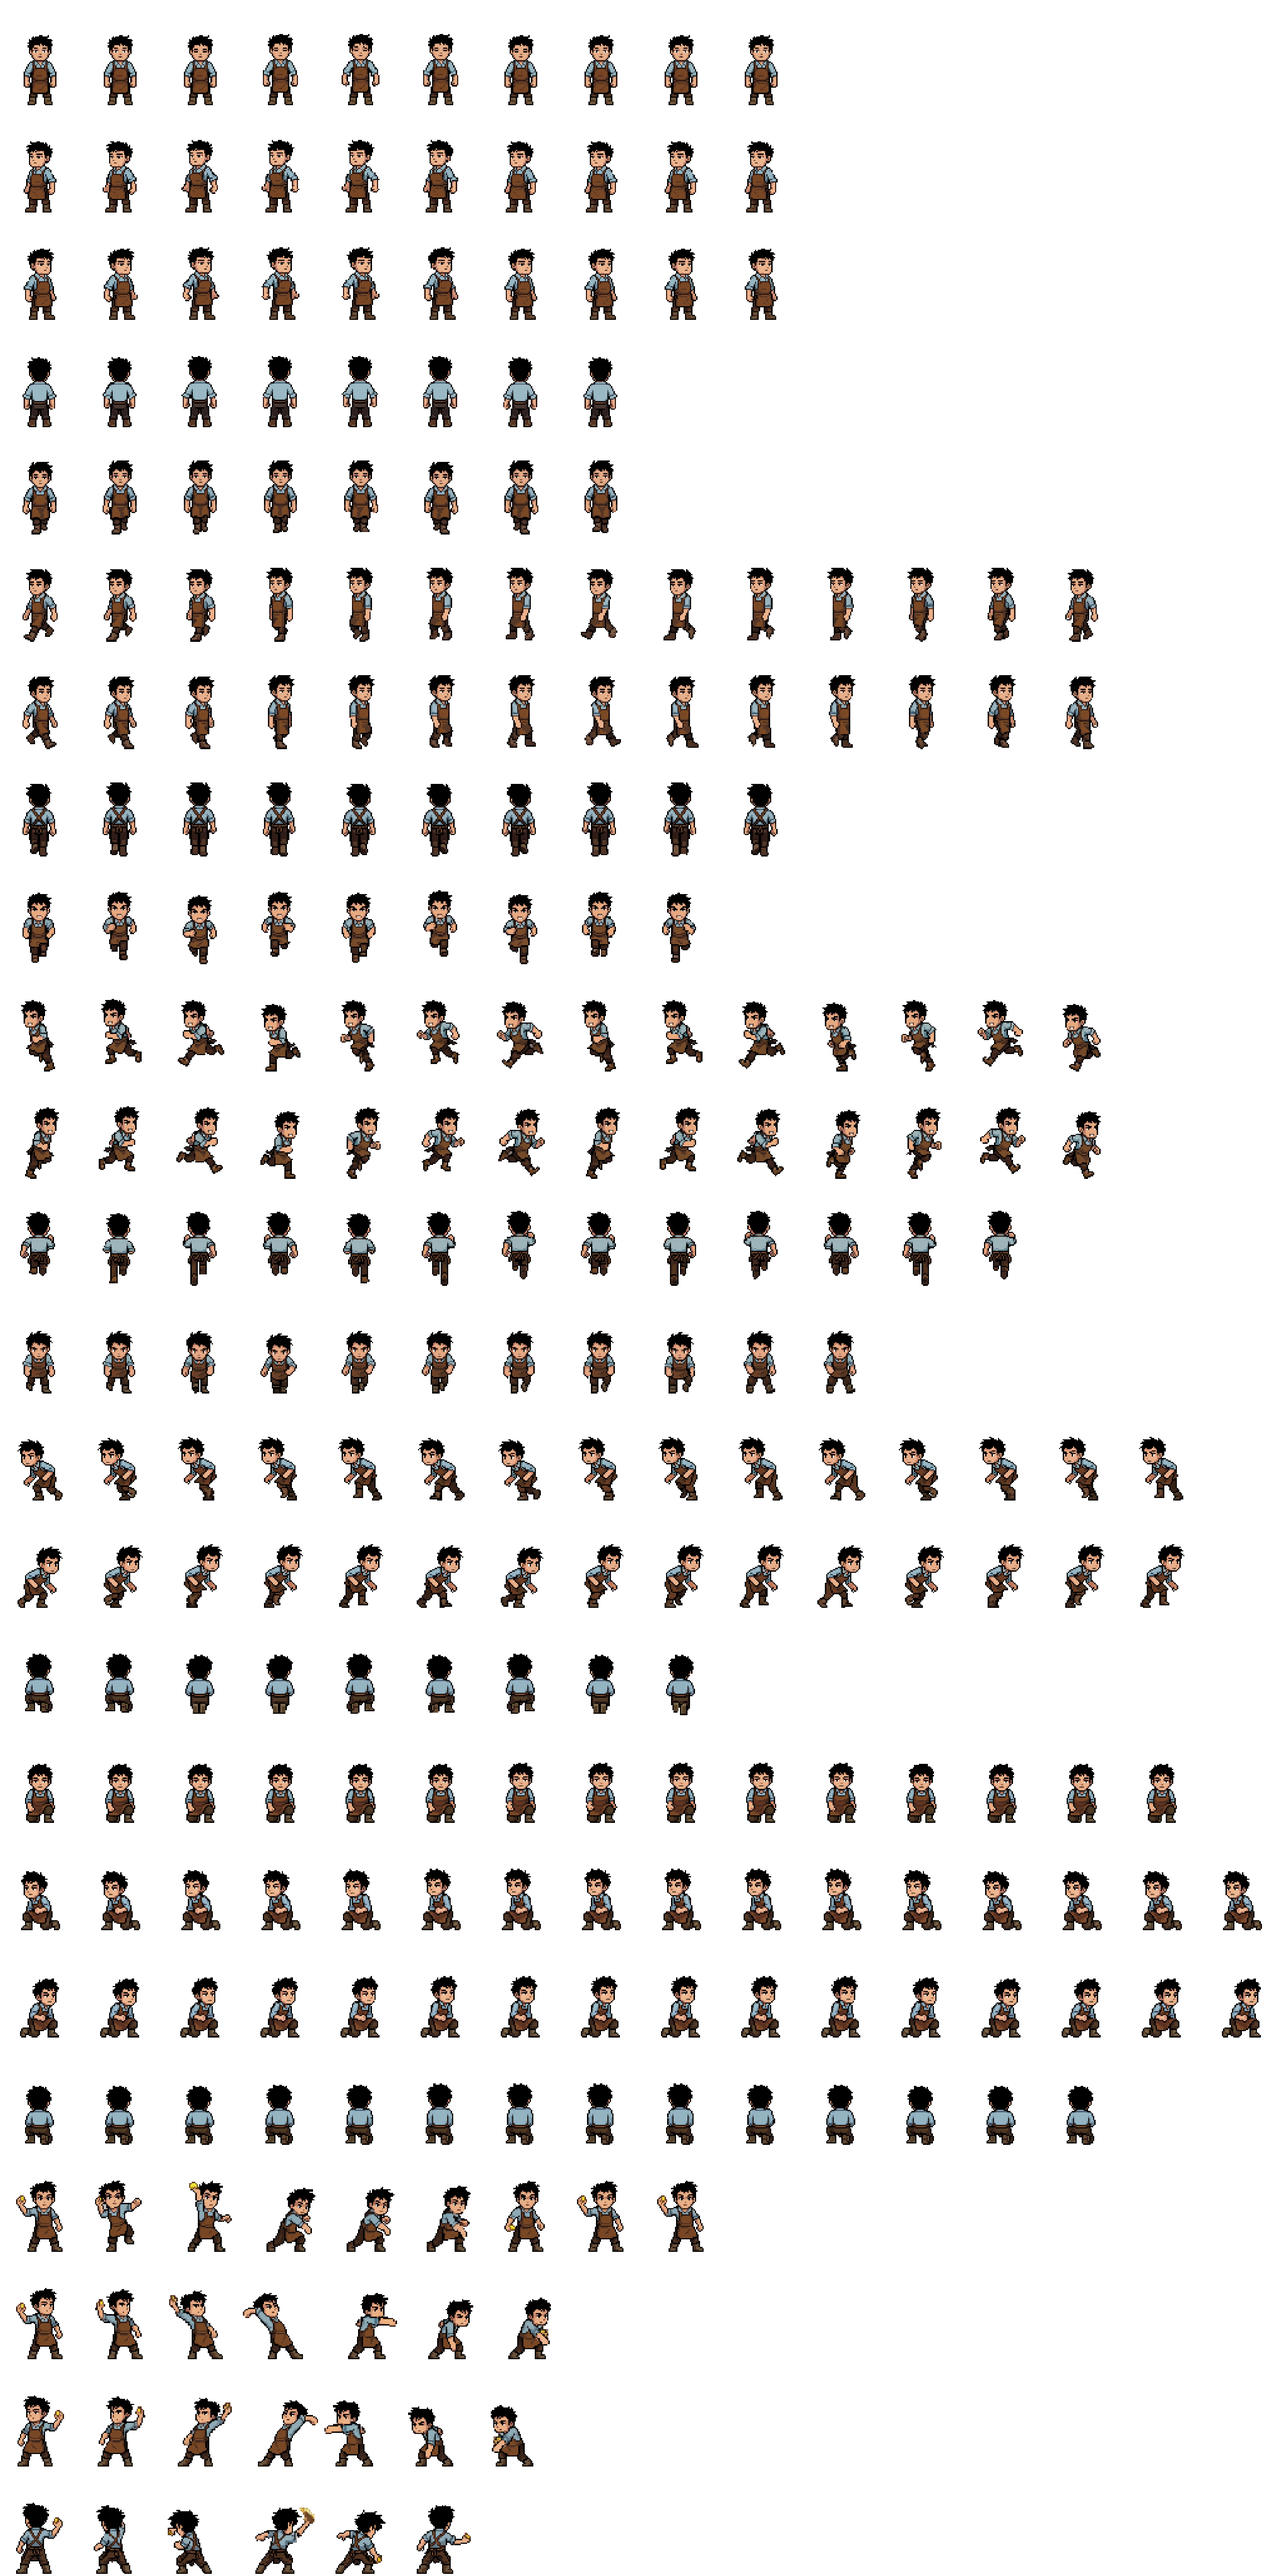
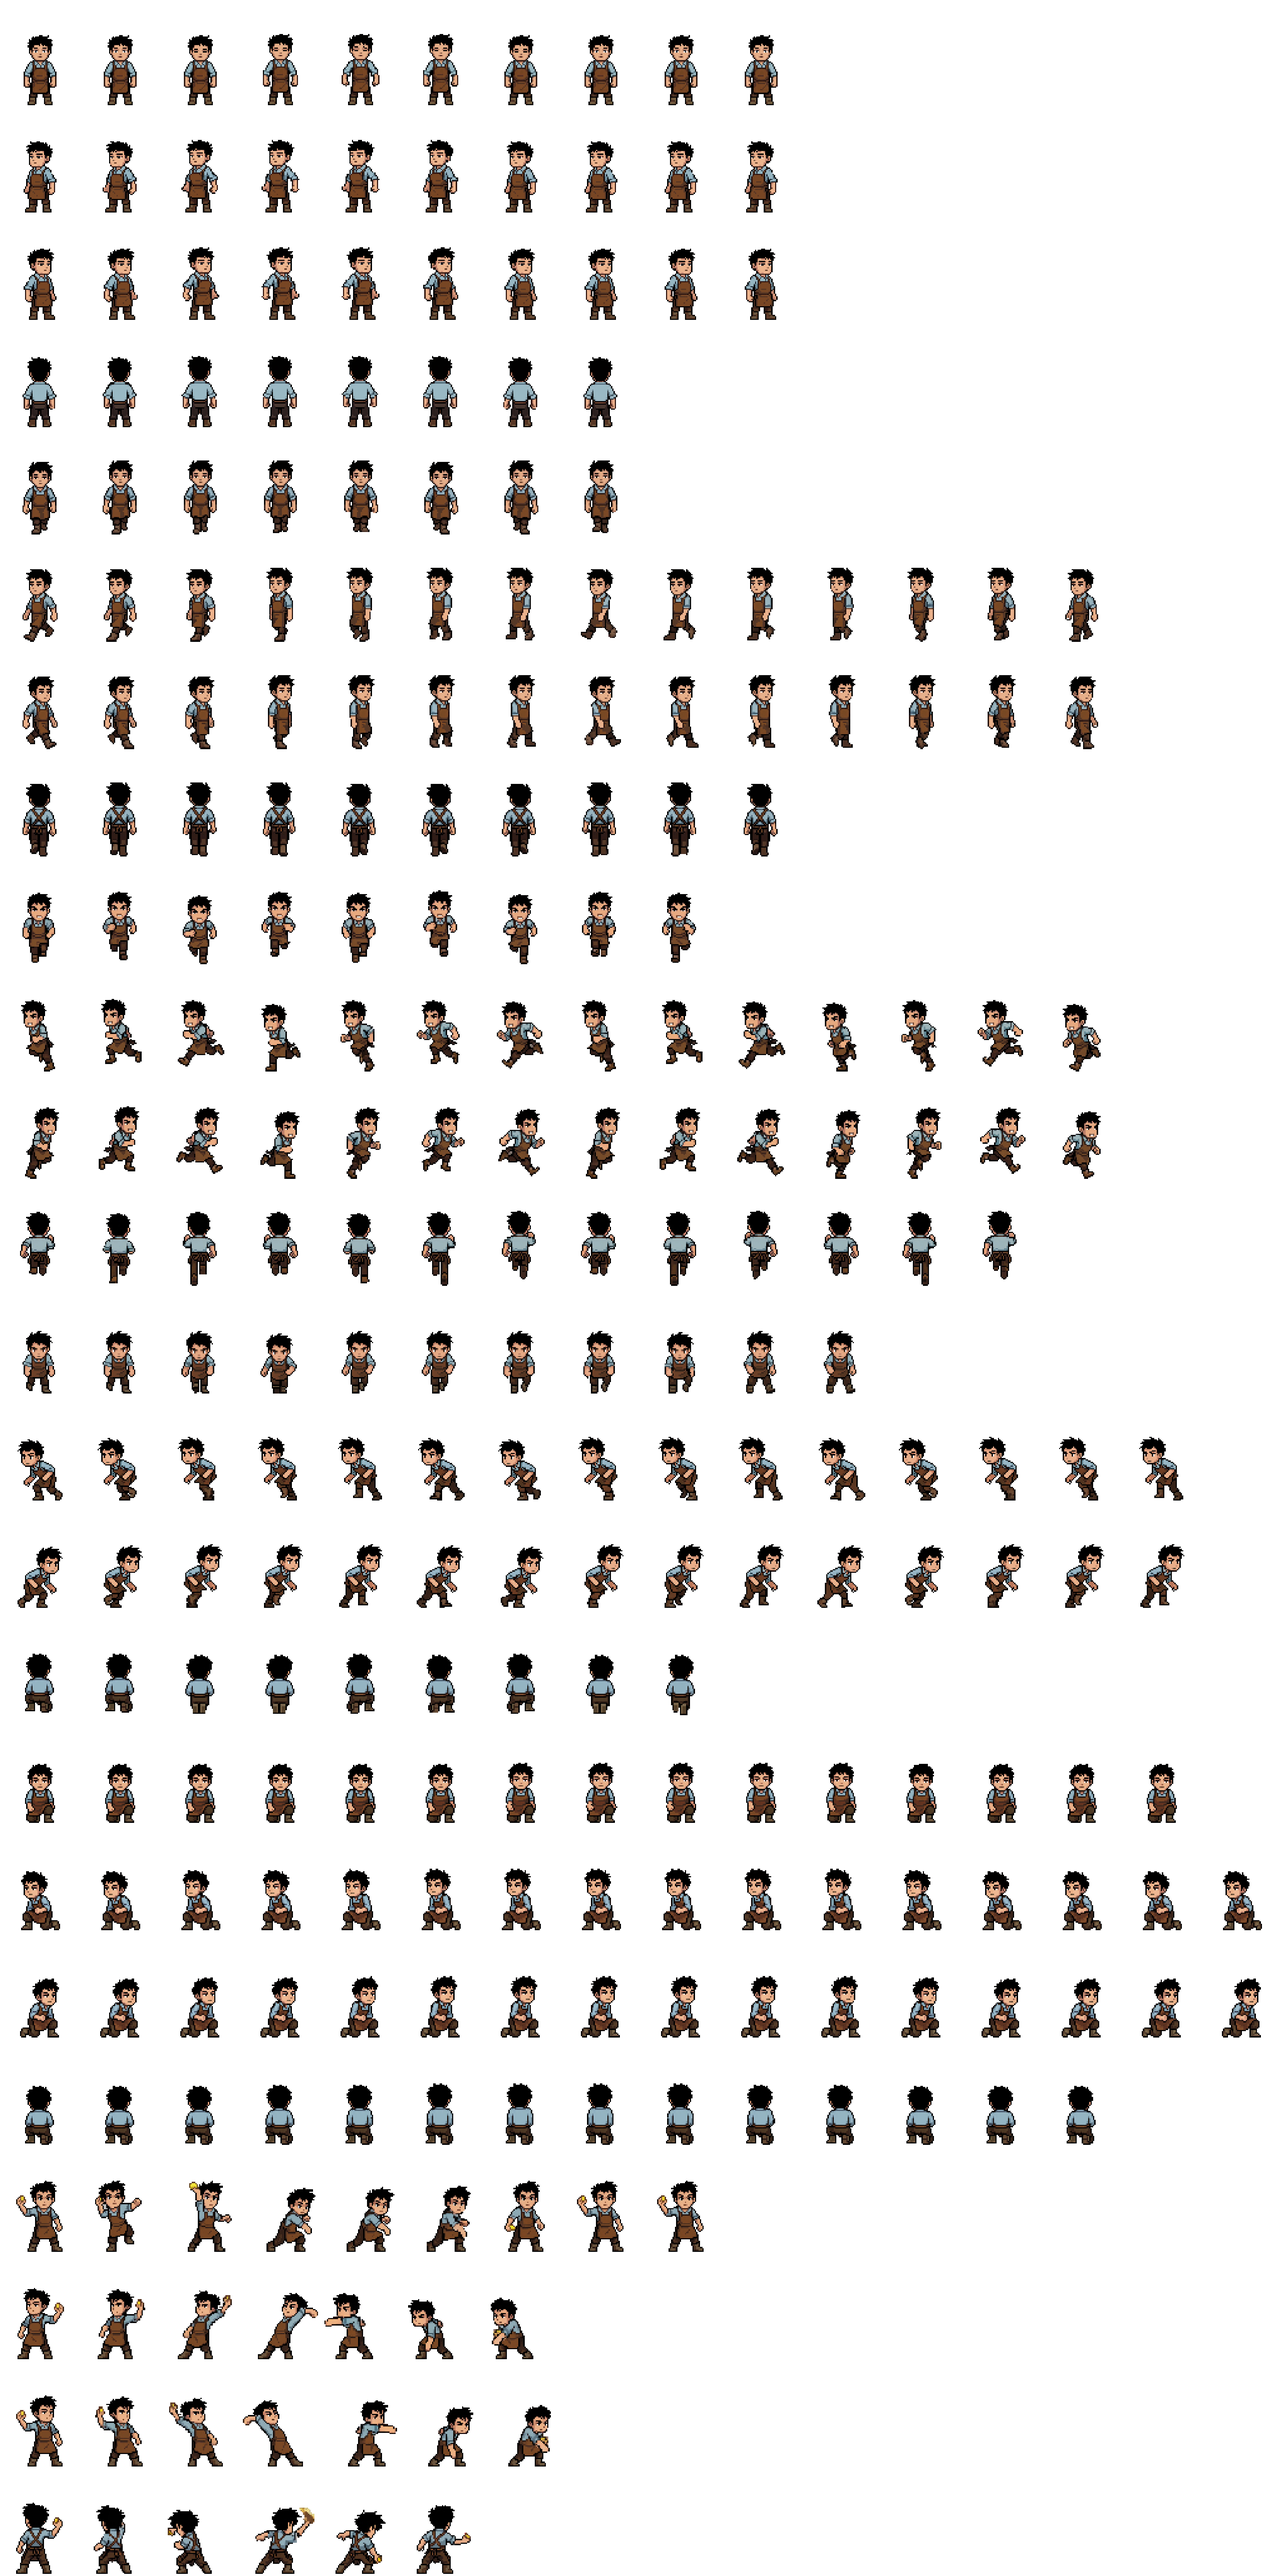
fix: 修正玩家投掷左右方向动画颠倒
投掷侧向源图本身朝左，生成脚本却把它当成右向，导致 left/right 整体反过来。
新增 SIDE_FACES_LEFT 让投掷先镜像成 right、再镜像回 left，并重建两套图集。

Changed region(s): [[0.0, 0.875, 0.4375, 0.9688]]

diff --git a/tools/characters/build_player_actions.py b/tools/characters/build_player_actions.py
@@ -24,6 +24,9 @@ SPECS = {
     "throw": ("投掷", "合并图片 2.png", "合并图片.png", "合并图片 3.png", 12),
 }
 DIRECTIONS = ("down", "right", "up")
+# Source side views normally face right. The supplied throw sheet faces left,
+# so its right column is rebuilt by mirroring instead of being used as-is.
+SIDE_FACES_LEFT = {"throw"}
 CELL = (224, 300)
 
 
@@ -74,6 +77,9 @@ def build(pixel_perfect: bool = False) -> None:
     texture_id = 0
     for action, spec in SPECS.items():
         poses_by_direction = {d: read_poses(action, d) for d in DIRECTIONS}
+        if action in SIDE_FACES_LEFT:
+            # The stored side sheet already faces left: keep it as left and mirror it for right.
+            poses_by_direction["right"] = [ImageOps.mirror(p) for p in poses_by_direction["right"]]
         poses_by_direction["left"] = [ImageOps.mirror(p) for p in poses_by_direction["right"]]
         for direction in ("down", "left", "right", "up"):
             row = len(animations)
